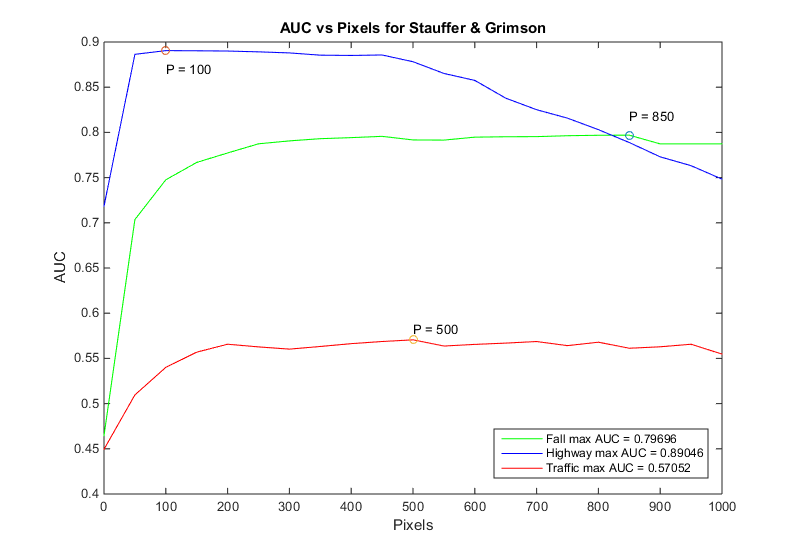
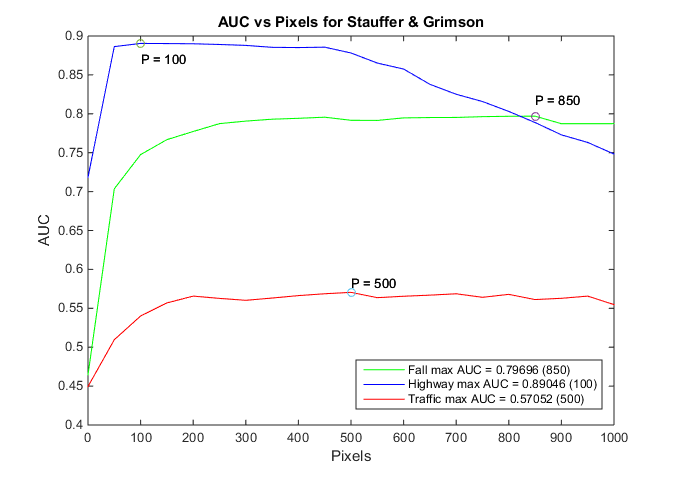
.

diff --git a/week3/task2.m b/week3/task2.m
@@ -79,9 +79,9 @@ AUCmax_fall = AUC(1,indexmaxfall);
 AUCmax_high = AUC(2,indexmaxhigh);
 AUCmax_traf = AUC(3,indexmaxtraf);
 
-label_1 = strcat({'Fall max AUC = '},num2str(AUCmax_fall));
-label_2 = strcat({'Highway max AUC = '},num2str(AUCmax_high));
-label_3 = strcat({'Traffic max AUC = '},num2str(AUCmax_traf));
+label_1 = strcat({'Fall max AUC = '},num2str(AUCmax_fall),{' ('},num2str(P_number(indexmaxfall)),')');
+label_2 = strcat({'Highway max AUC = '},num2str(AUCmax_high),{' ('},num2str(P_number(indexmaxhigh)),')');
+label_3 = strcat({'Traffic max AUC = '},num2str(AUCmax_traf),{' ('},num2str(P_number(indexmaxtraf)),')');
 
 p_str_fall = strcat({'P = '},num2str(P_number(indexmaxfall)));
 p_str_high = strcat({'P = '},num2str(P_number(indexmaxhigh)));
@@ -100,5 +100,10 @@ text(P_number(indexmaxtraf),(AUC(3,indexmaxfall)+0.02),p_str_traf,'HorizontalAli
 
 hold on;
 plot(P_number(indexmaxfall), AUC(1,indexmaxfall), 'o', P_number(indexmaxhigh), AUC(2,indexmaxhigh), 'o', P_number(indexmaxtraf), AUC(3,indexmaxtraf), 'o');
+
+%P for max average AUC
+indexmaxcomb = find(max(sum(AUC,1))==sum(AUC,1),1,'first');
+bestP = P_number(indexmaxcomb);
+AUC_mean_max = mean([AUC(1,indexmaxcomb),AUC(2,indexmaxcomb),AUC(3,indexmaxcomb)]);
 
 end

diff --git a/week3/task3.m b/week3/task3.m
@@ -35,11 +35,11 @@ for v=1:numel(videonames)
                 best_element_size = Size;
             end
             %test opening
-            auc = apply_morpho(sequence, videoname, se, 'closening');
+            auc = apply_morpho(sequence, videoname, se, 'closing');
             if(auc > best_auc)
                 best_auc = auc;
                 best_element = str_element;
-                best_morpho_operetor = 'closening';
+                best_morpho_operetor = 'closing';
                 best_element_size = Size;
                 
             end
@@ -71,7 +71,7 @@ seq_size = size(sequence,3);
 for i=1:seq_size
     if(strcmp(morpho_operator,'opening'))
         sequence(:,:,i) = imopen(sequence(:,:,i),se);
-    elseif(strcmp(morpho_operator,'closening'))
+    elseif(strcmp(morpho_operator,'closing'))
         sequence(:,:,i) = imclose(sequence(:,:,i),se);
     elseif(strcmp(morpho_operator,'both'))
         sequence(:,:,i) = imopen(sequence(:,:,i),se);

diff --git a/utils/alpha_sweep.m b/utils/alpha_sweep.m
@@ -76,10 +76,10 @@ AUC = trapz(precision,2)/size(TP_,2);
 % ylabel('Pixels');
 % legend('TP','TN','FP','FN');
 
-% figure(3)
-% plot(recall, transpose(precision), 'g');%, recall, transpose(precision .* recall),'b');
-% title(strcat({'Recall vs Precision & AUC for dataset '},data));
-% xlabel('Recall');
-% ylabel('Precision');
-% legend('Recall vs Precision','Area under the curve');
+figure(3)
+plot(recall, transpose(precision), 'g');
+title(strcat({'Recall vs Precision & AUC for dataset '},data));
+xlabel('Recall');
+ylabel('Precision');
+legend('Recall vs Precision','Area under the curve');
 end
